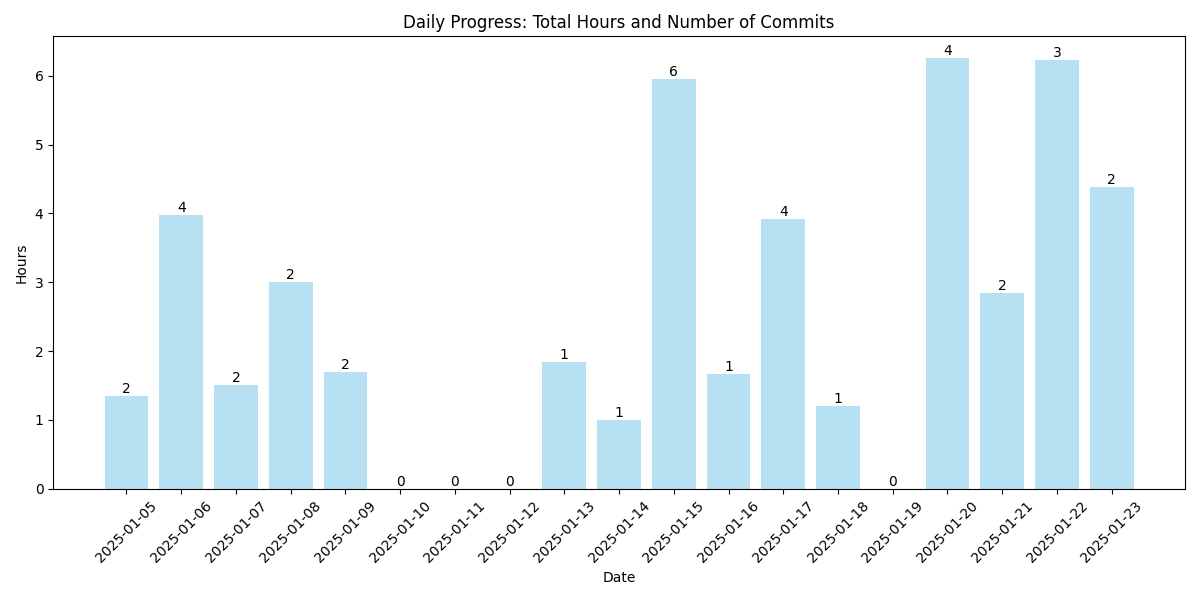
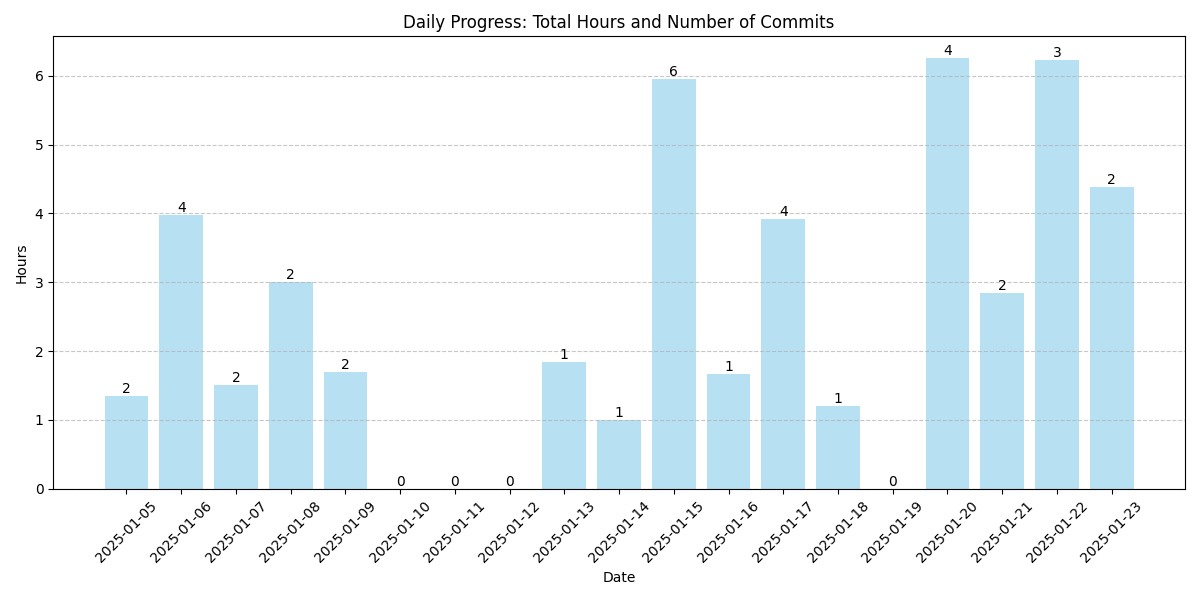
minor changes

diff --git a/recent_hours.html b/recent_hours.html
@@ -100,7 +100,7 @@
                 const barDiv = document.createElement('div');
                 barDiv.innerHTML = `
                     <div class="bar" style="height: ${heightInPixels}px">
-                        <span class="bar-label">${day.hours.toFixed(1)}h</span>
+                        <span class="bar-label">${day.hours.toFixed(1)}</span>
                     </div>
                 `;
                 bars.appendChild(barDiv);

diff --git a/generate_csv.py b/generate_csv.py
@@ -96,6 +96,7 @@ plt.xticks(range(len(merged_df['date'])), merged_df['date'], rotation=45)
 plt.xlabel('Date')
 plt.ylabel('Hours')
 plt.title('Daily Progress: Total Hours and Number of Commits')
+ax.grid(axis='y', linestyle='--', alpha=0.7)  # Add horizontal grid lines
 plt.tight_layout()
 
 # Save the plot
